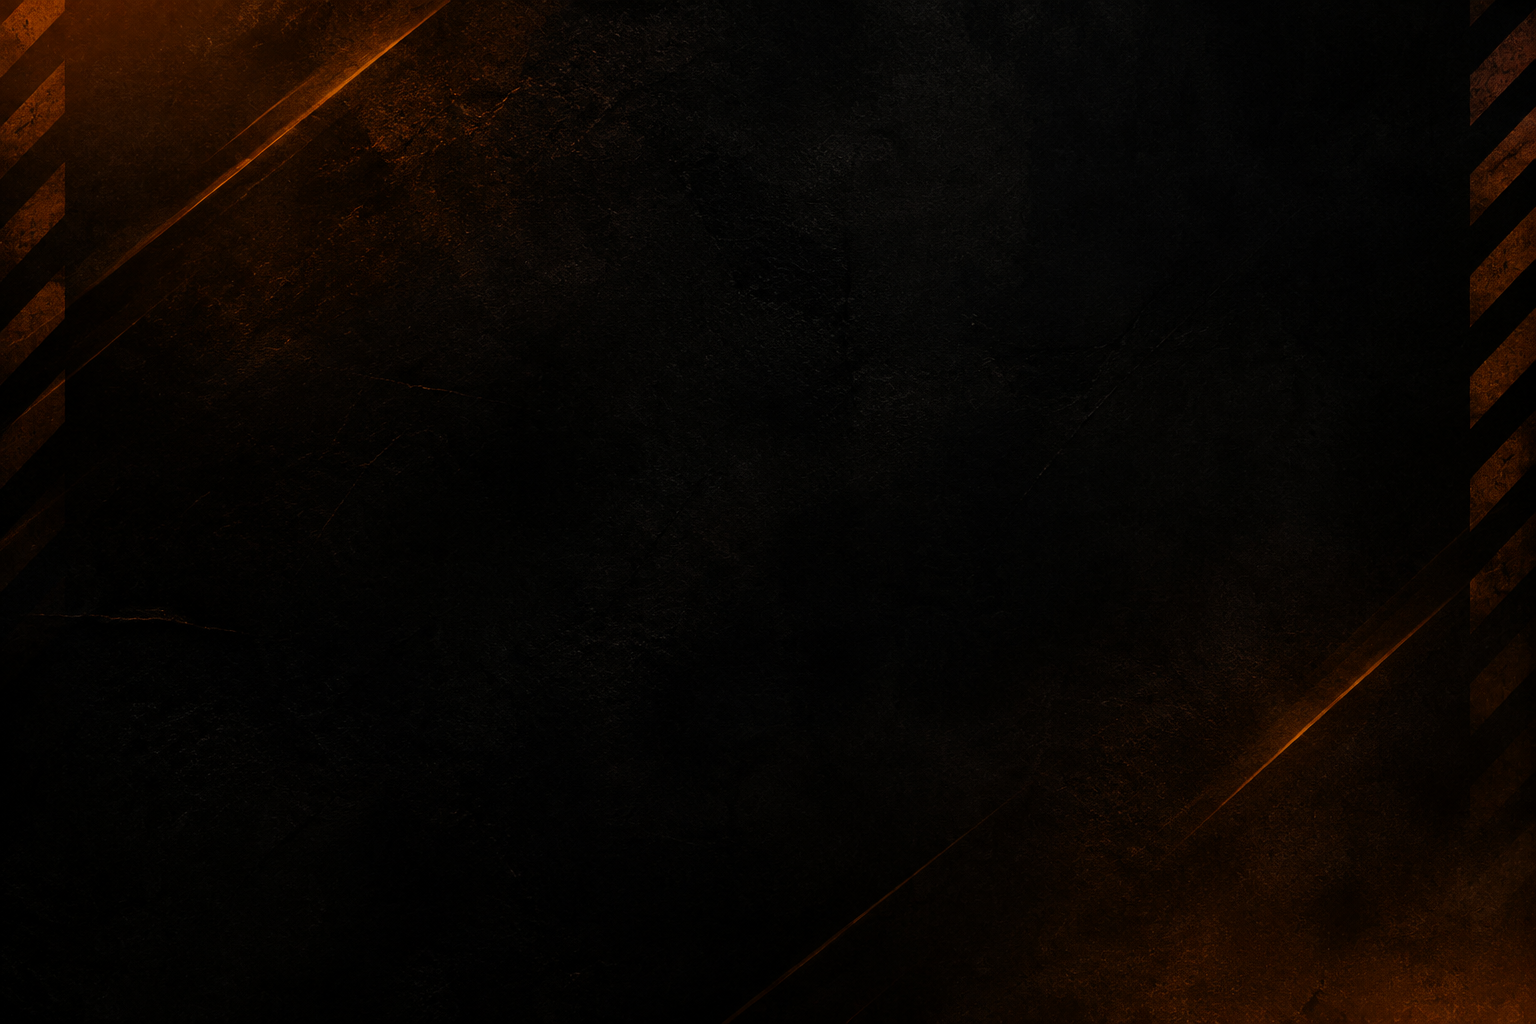
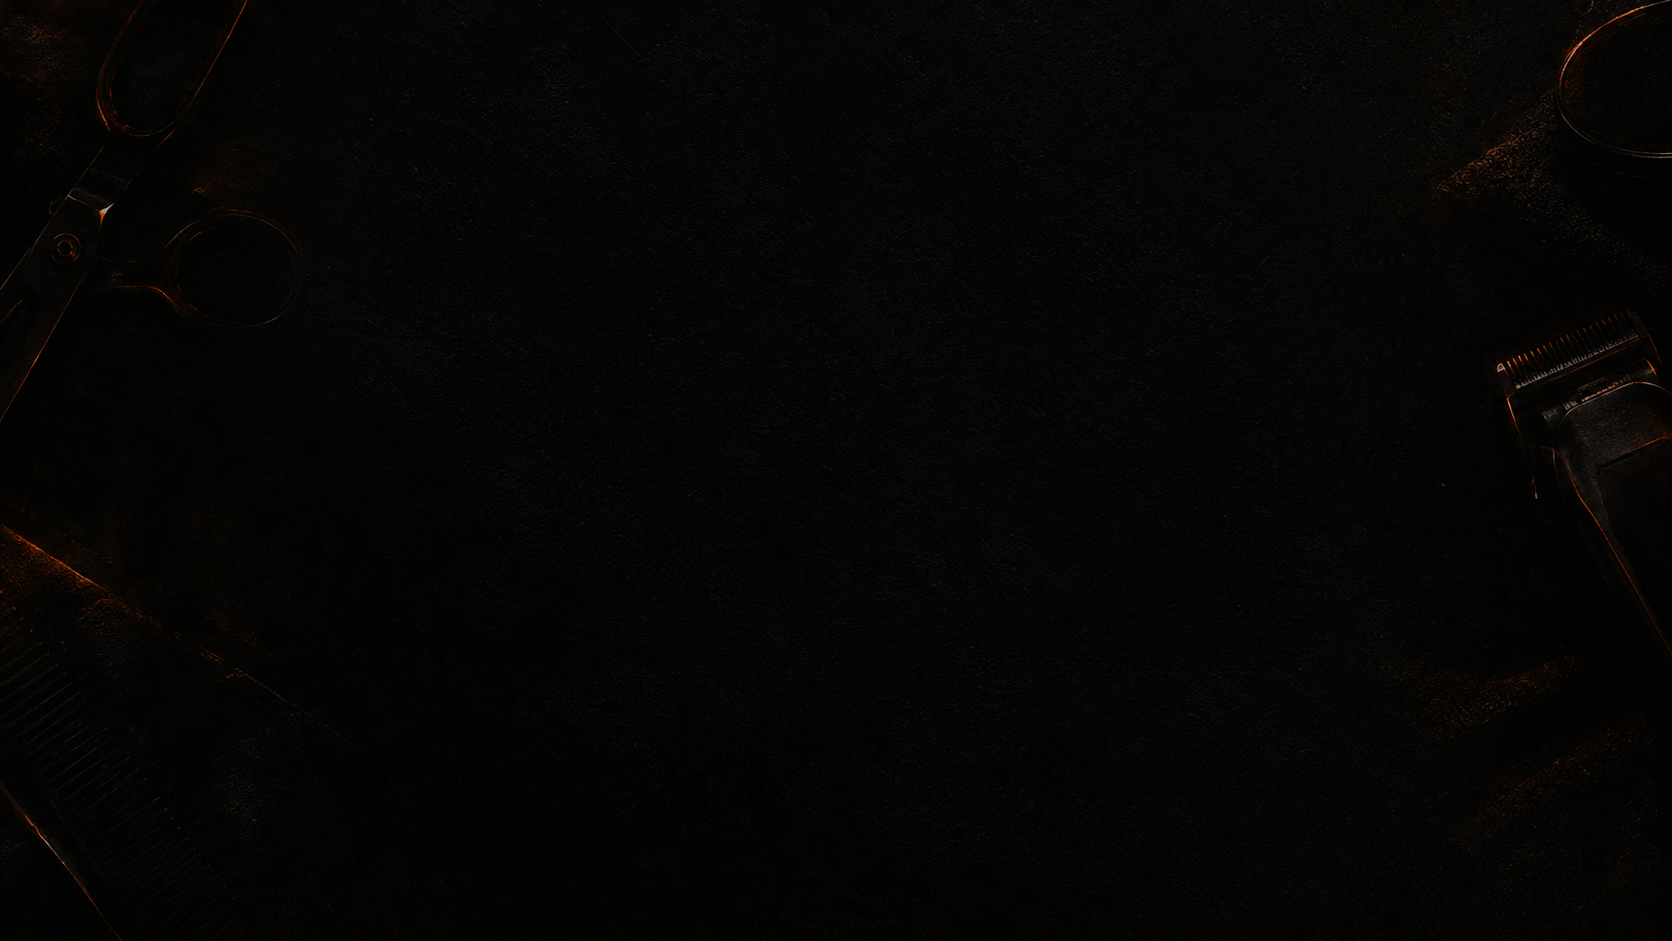
fix: atualing services section

diff --git a/src/components/Servicos.vue b/src/components/Servicos.vue
@@ -55,46 +55,34 @@ function classe(i) {
       </header>
 
       <div class="palco">
-        <ServicoCard
-          v-for="(servico, i) in servicos"
-          :key="servico.titulo"
-          v-bind="servico"
-          :class="['item', classe(i)]"
-          :style="{ '--offset': posicao(i) }"
-          @click="classe(i) === 'lateral' && (ativo = i)"
-        />
+        <ServicoCard v-for="(servico, i) in servicos" :key="servico.titulo" v-bind="servico"
+          :class="['item', classe(i)]" :style="{ '--offset': posicao(i) }"
+          @click="classe(i) === 'lateral' && (ativo = i)" />
       </div>
 
       <div class="controles">
         <button class="seta" type="button" aria-label="Serviço anterior" @click="anterior">
           <svg viewBox="0 0 24 24" fill="none">
-            <path d="M15 18l-6-6 6-6" stroke="currentColor" stroke-width="2" stroke-linecap="round" stroke-linejoin="round" />
+            <path d="M15 18l-6-6 6-6" stroke="currentColor" stroke-width="2" stroke-linecap="round"
+              stroke-linejoin="round" />
           </svg>
         </button>
 
         <div class="pontos">
-          <button
-            v-for="(servico, i) in servicos"
-            :key="servico.titulo"
-            type="button"
-            :class="['ponto', { ativo: i === ativo }]"
-            :aria-label="`Ver ${servico.titulo}`"
-            @click="ativo = i"
-          ></button>
+          <button v-for="(servico, i) in servicos" :key="servico.titulo" type="button"
+            :class="['ponto', { ativo: i === ativo }]" :aria-label="`Ver ${servico.titulo}`"
+            @click="ativo = i"></button>
         </div>
 
         <button class="seta" type="button" aria-label="Próximo serviço" @click="proximo">
           <svg viewBox="0 0 24 24" fill="none">
-            <path d="M9 18l6-6-6-6" stroke="currentColor" stroke-width="2" stroke-linecap="round" stroke-linejoin="round" />
+            <path d="M9 18l6-6-6-6" stroke="currentColor" stroke-width="2" stroke-linecap="round"
+              stroke-linejoin="round" />
           </svg>
         </button>
       </div>
 
-      <BotaoAgendar
-        :texto="`Agendar ${servicoAtivo.titulo}`"
-        href="#contato"
-        class="botao-servico"
-      />
+      <BotaoAgendar :texto="`Agendar ${servicoAtivo.titulo}`" href="#contato" class="botao-servico" />
     </div>
   </section>
 </template>
@@ -109,7 +97,8 @@ function classe(i) {
   min-height: 100dvh;
   padding: 6.875rem var(--margem-lateral) 2.5rem;
   box-sizing: border-box;
-  overflow-x: clip;            /* os cards laterais saem pela borda da tela sem criar rolagem */
+  overflow-x: clip;
+  /* os cards laterais saem pela borda da tela sem criar rolagem */
   background: url('src/assets/imagens/texturaservicos.png') center / cover no-repeat #1c1c1c;
 }
 
@@ -160,17 +149,20 @@ function classe(i) {
 /* ---------- carrossel ---------- */
 .palco {
   position: relative;
-  width: calc(100% + 2 * var(--margem-lateral));   /* ocupa a tela toda, passando das margens */
+  width: calc(100% + 2 * var(--margem-lateral));
   margin-inline: calc(-1 * var(--margem-lateral));
   height: 22rem;
+  --distancia: 32rem;        /* distância entre o centro e os cards laterais */
+  --escala-lateral: 0.6;     /* tamanho dos cards laterais */
 }
 
 .item {
+  --escala: 1;
   position: absolute;
   top: 50%;
   left: 50%;
   will-change: transform, opacity;
-  transform: translate(-50%, -50%) translateX(calc(var(--offset) * 37rem)) scale(1);
+  transform: translate(-50%, -50%) translateX(calc(var(--offset) * var(--distancia))) scale(var(--escala));
   transition:
     transform 0.6s cubic-bezier(0.22, 1, 0.36, 1),
     opacity 0.6s ease;
@@ -180,11 +172,15 @@ function classe(i) {
   z-index: 3;
 }
 
+.item.ativo:hover {
+  --escala: 1.03;
+}
+
 .item.lateral {
   z-index: 2;
   opacity: 0.5;
   cursor: pointer;
-  transform: translate(-50%, -50%) translateX(calc(var(--offset) * 37rem)) scale(0.85);
+  --escala: var(--escala-lateral);
 }
 
 .item.lateral:hover {
@@ -195,7 +191,7 @@ function classe(i) {
   z-index: 1;
   opacity: 0;
   pointer-events: none;
-  transform: translate(-50%, -50%) translateX(calc(var(--offset) * 37rem)) scale(0.7);
+  --escala: 0.5;
 }
 
 /* ---------- setas e indicadores ---------- */
@@ -262,7 +258,8 @@ function classe(i) {
 }
 
 .ponto.ativo {
-  width: 1.75rem;              /* o ponto ativo fica alongado e laranja */
+  width: 1.75rem;
+  /* o ponto ativo fica alongado e laranja */
   background: #d55b0e;
 }
 
@@ -296,6 +293,7 @@ function classe(i) {
 }
 
 @media (prefers-reduced-motion: reduce) {
+
   .item,
   .seta,
   .ponto {
